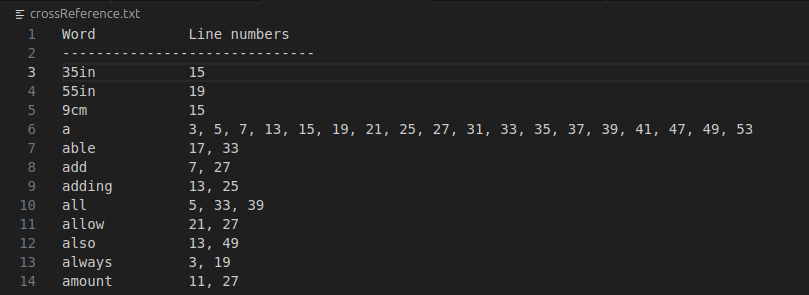
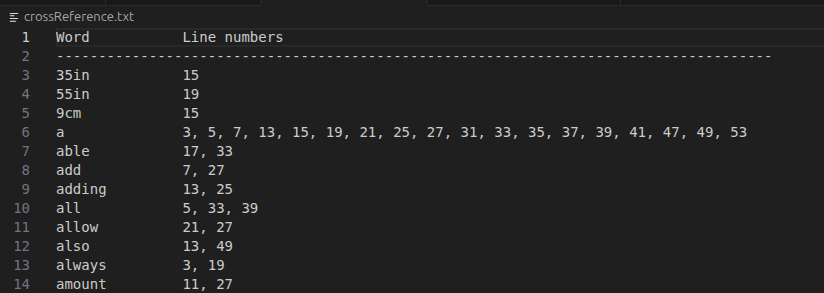
Keli pataisymai

Changed region(s): [[0.0, 0.0307, 0.9271, 1.0], [0.0, 0.43, 0.1545, 1.0]]

diff --git a/CrossReference.cpp b/CrossReference.cpp
@@ -15,6 +15,12 @@ void runCrossReference(const std::string &inputFile, const std::string &outputFi
     std::map<std::string, std::set<int>> wordLines;
 
     std::ifstream in(inputFile);
+    if (!in)
+    {
+        std::cerr << "Error: cannot open file " << inputFile << "\n";
+        return;
+    }
+
     std::string line;
     int lineNumber = 0;
 
@@ -36,19 +42,27 @@ void runCrossReference(const std::string &inputFile, const std::string &outputFi
     }
 
     std::ofstream out(outputFile);
+    if (!out)
+    {
+        std::cerr << "Error: cannot open output file: " << outputFile << "\n";
+        return;
+    }
 
     // header
     out << std::left << std::setw(15) << "Word"
         << "Line numbers\n";
     out << std::string(15, '-') << ""
-        << std::string(15, '-') << "\n";
+        << std::string(70, '-') << "\n";
 
     // rows
-    for (const auto& [word, lines] : wordLines) {
+    for (const auto &[word, lines] : wordLines)
+    {
         out << std::left << std::setw(15) << word;
         bool first = true;
-        for (int lineNum : lines) {
-            if (!first) out << ", ";
+        for (int lineNum : lines)
+        {
+            if (!first)
+                out << ", ";
             out << lineNum;
             first = false;
         }

diff --git a/WordCount.cpp b/WordCount.cpp
@@ -9,6 +9,12 @@
 std::map<std::string, int> countWordsFromFile(const std::string &inputFile)
 {
     std::ifstream in(inputFile);
+    if (!in)
+    {
+        std::cerr << "Error: cannot open file " << inputFile << "\n";
+        return {};
+    }
+
     std::map<std::string, int> wordCounts;
     std::string rawWord;
 
@@ -26,6 +32,11 @@ std::map<std::string, int> countWordsFromFile(const std::string &inputFile)
 void runWordCount(const std::string &inputFile,
                   const std::string &outputFile)
 {
+    auto counts = countWordsFromFile(inputFile);
+    if (counts.empty())
+    {
+        return;
+    }
 
     std::ofstream out(outputFile);
 
@@ -35,7 +46,7 @@ void runWordCount(const std::string &inputFile,
     out << std::string(15, '-') << ""
         << std::string(10, '-') << "\n";
 
-    for (const auto &[word, count] : countWordsFromFile(inputFile))
+    for (const auto &[word, count] : counts)
     {
         if (count > 1)
         {

diff --git a/UrlFinder.cpp b/UrlFinder.cpp
@@ -10,8 +10,13 @@ void runUrlFinder(const std::string &inputFile,
                   const std::string &outputFile)
 {
     std::ifstream in(inputFile);
+    if (!in)
+    {
+        std::cerr << "Error: cannot open file " << inputFile << "\n";
+        return;
+    }
 
- const std::regex urlPattern(R"(\b(?:https?://)\S+[^\s,])");
+    const std::regex urlPattern(R"(\b(?:https?://)\S+[^\s.,])");
 
     std::set<std::string> urls;
     std::string line;

diff --git a/README.md b/README.md
@@ -26,7 +26,7 @@ Suvedus ***1.*** programa sugeneruoja failą su žodžiais ir jų pasikartojimo 
 ![wordCount output](./screenshots/image-1.png)  
 
 Suvedus ***2.*** programa sugeneruoja failą su cross-reference tipo lentele. Joje nurodytas žodis ir kuriose teksto eilutėse jį galima rasti.  
-![crossReference](./screenshots/image-2.png)  
+![crossReference](./screenshots/image-2.png) 
 
 Suvedus ***3.*** programa sugeneruoja failą su URL adresų sąrašu.  
 ![urlList](./screenshots/image-3.png)
